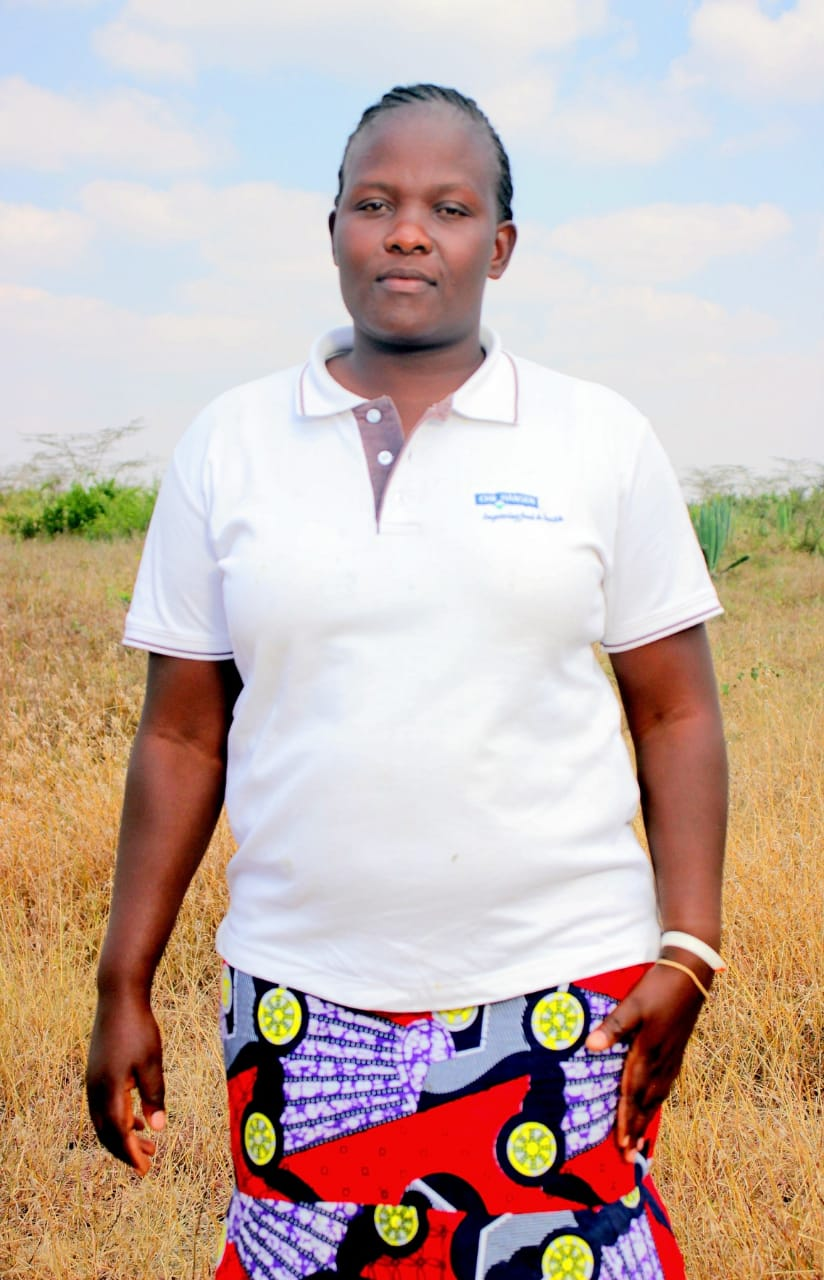
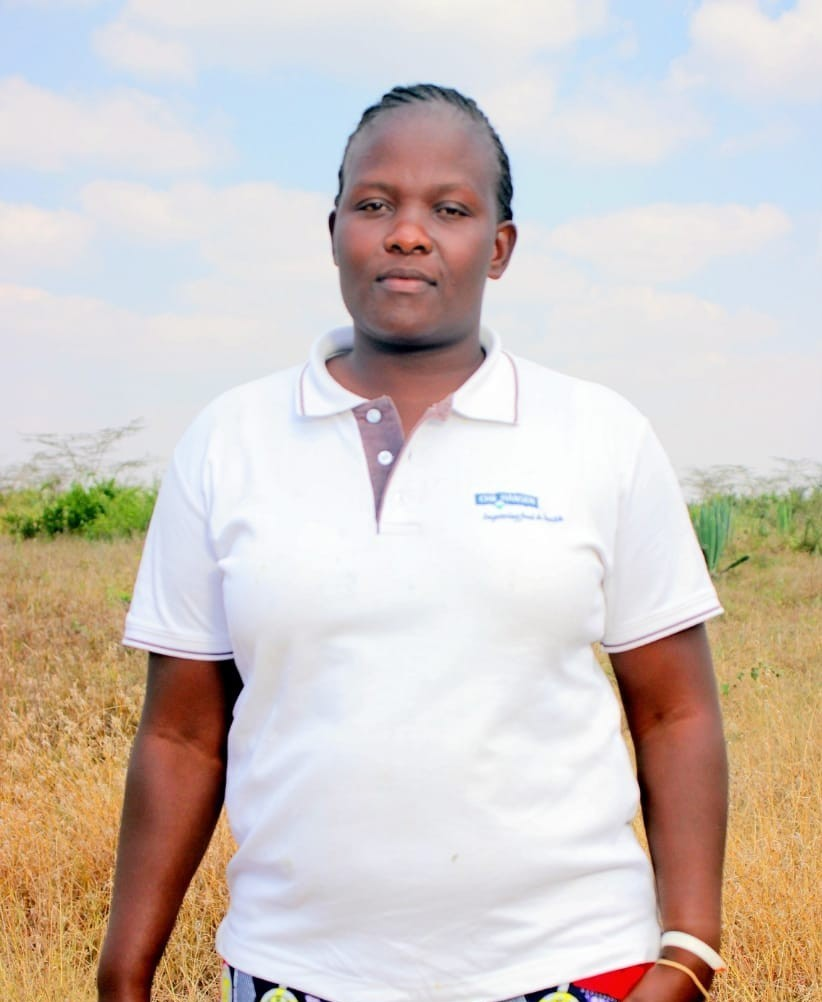
images

diff --git a/css/gallery css/style.css b/css/gallery css/style.css
@@ -237,6 +237,7 @@ h3.heading {
 }
 #team img {
   width: 100%;
+  height: 50rem;
 }
 
 

diff --git a/gallery.php b/gallery.php
@@ -226,7 +226,7 @@
             <div class="card text-center">
                 <img src="img/gallery/co-founder.jpeg" alt="">
                 <div class="card-body">
-                    <h4>Mr. Vitalis Nyambeka</h4>
+                    <h4>Mrs. Gladys Muhonja</h4>
                     <p>Co-Founder.</p>
                 </div>
             </div>
